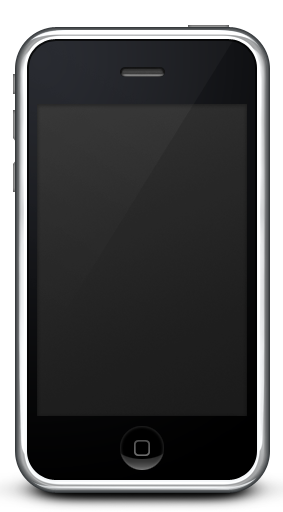
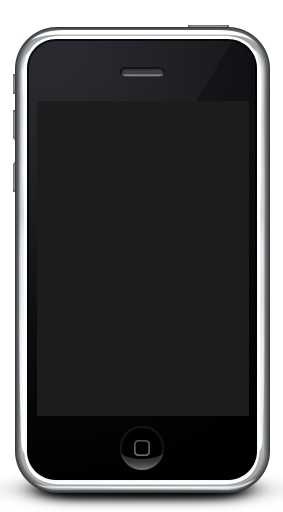
добавил тени к кнопкам

Changed region(s): [[0.1413, 0.1875, 0.6784, 0.2812], [0.8481, 0.6875, 0.9046, 0.8125]]

diff --git a/style.css b/style.css
@@ -52,10 +52,11 @@ button {
     border: none;
     font-size: 40px;
     margin-top: 190px;
+    box-shadow: rgb(94, 93, 93) 2px 2px 5px;
 }
 
 button:hover {
-    transform: scale(1.1);
+    transform: scale(1.07);
     filter: contrast(0.7);
    
 }
@@ -65,7 +66,7 @@ button:hover {
     position: absolute;
     width: 90px;
     height: 90px;
-  
+    
     top:  137px;
     left: 100px;
 }
@@ -119,6 +120,7 @@ input::placeholder {
     }
     button {
         
+        box-shadow: 4px 3px 11px black;
         border-radius: 63%;
         width: 60px;
         height: 60px;

diff --git a/index.html b/index.html
@@ -21,7 +21,7 @@
             <button  class="btn" data-type="number" data-value="3">3</button><button class="orange btn" data-type="operator" data-value="/">/</button>
             <button class="zero btn" data-type="number" data-value="0">0</button><button class="btn" data-type="number" data-value=".">.</button>
             <button class="orange btn" data-type="equal" data-value="=">=</button>
-            <span id="home">O</span>
+            <span id="home"></span>
         </div>
     </div>
 
